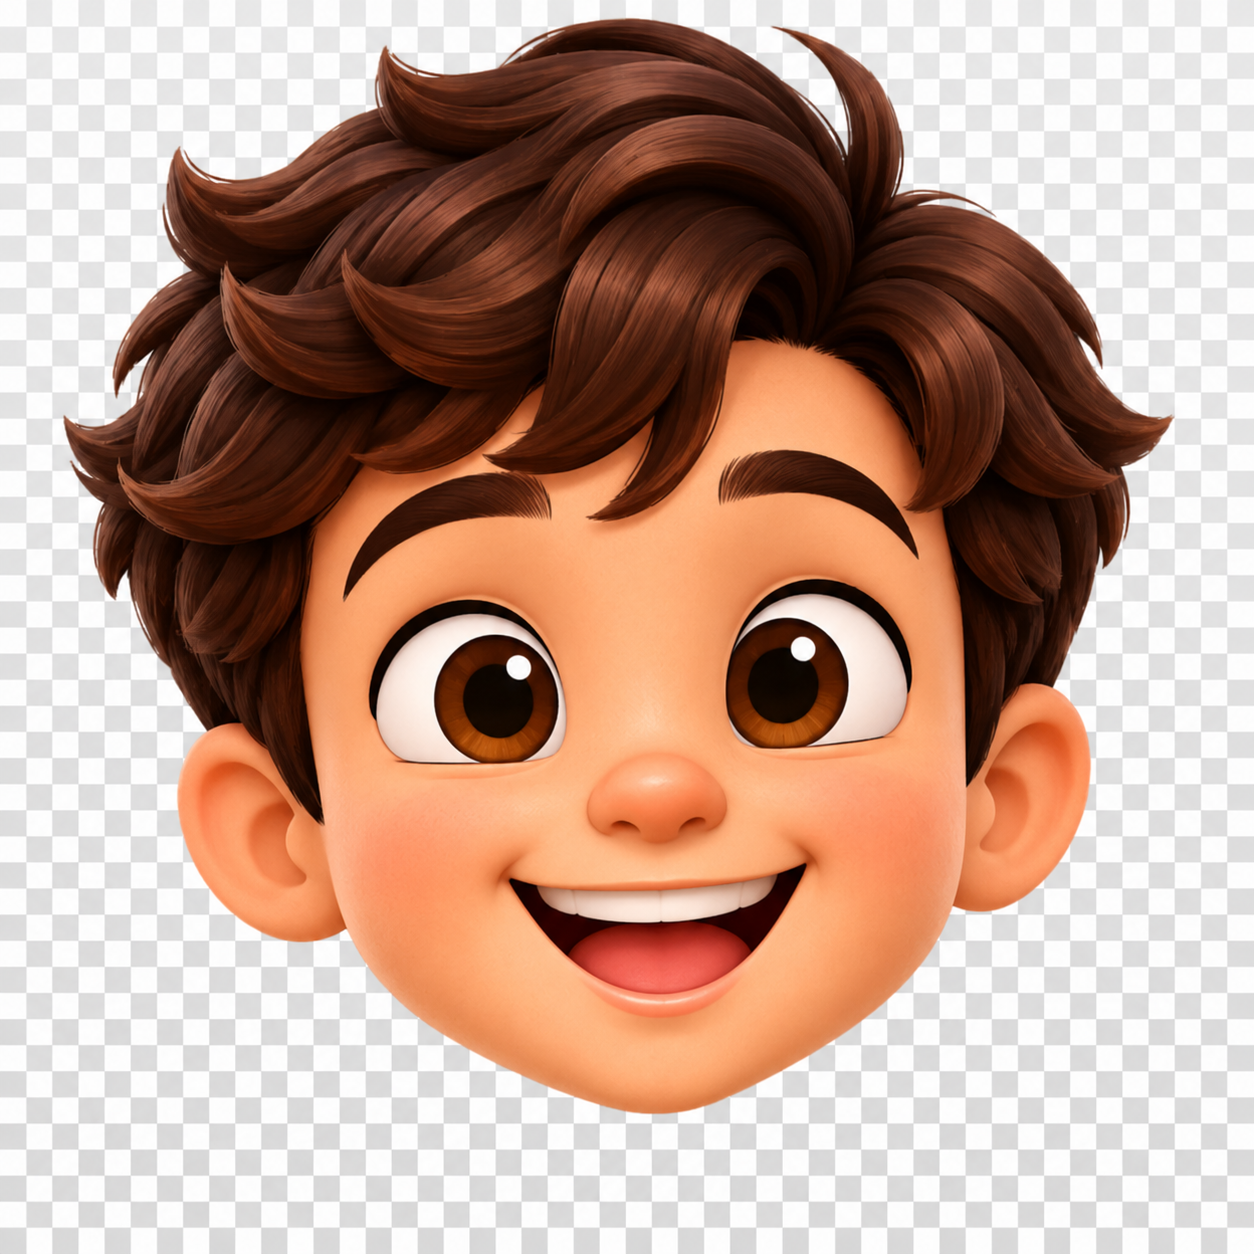
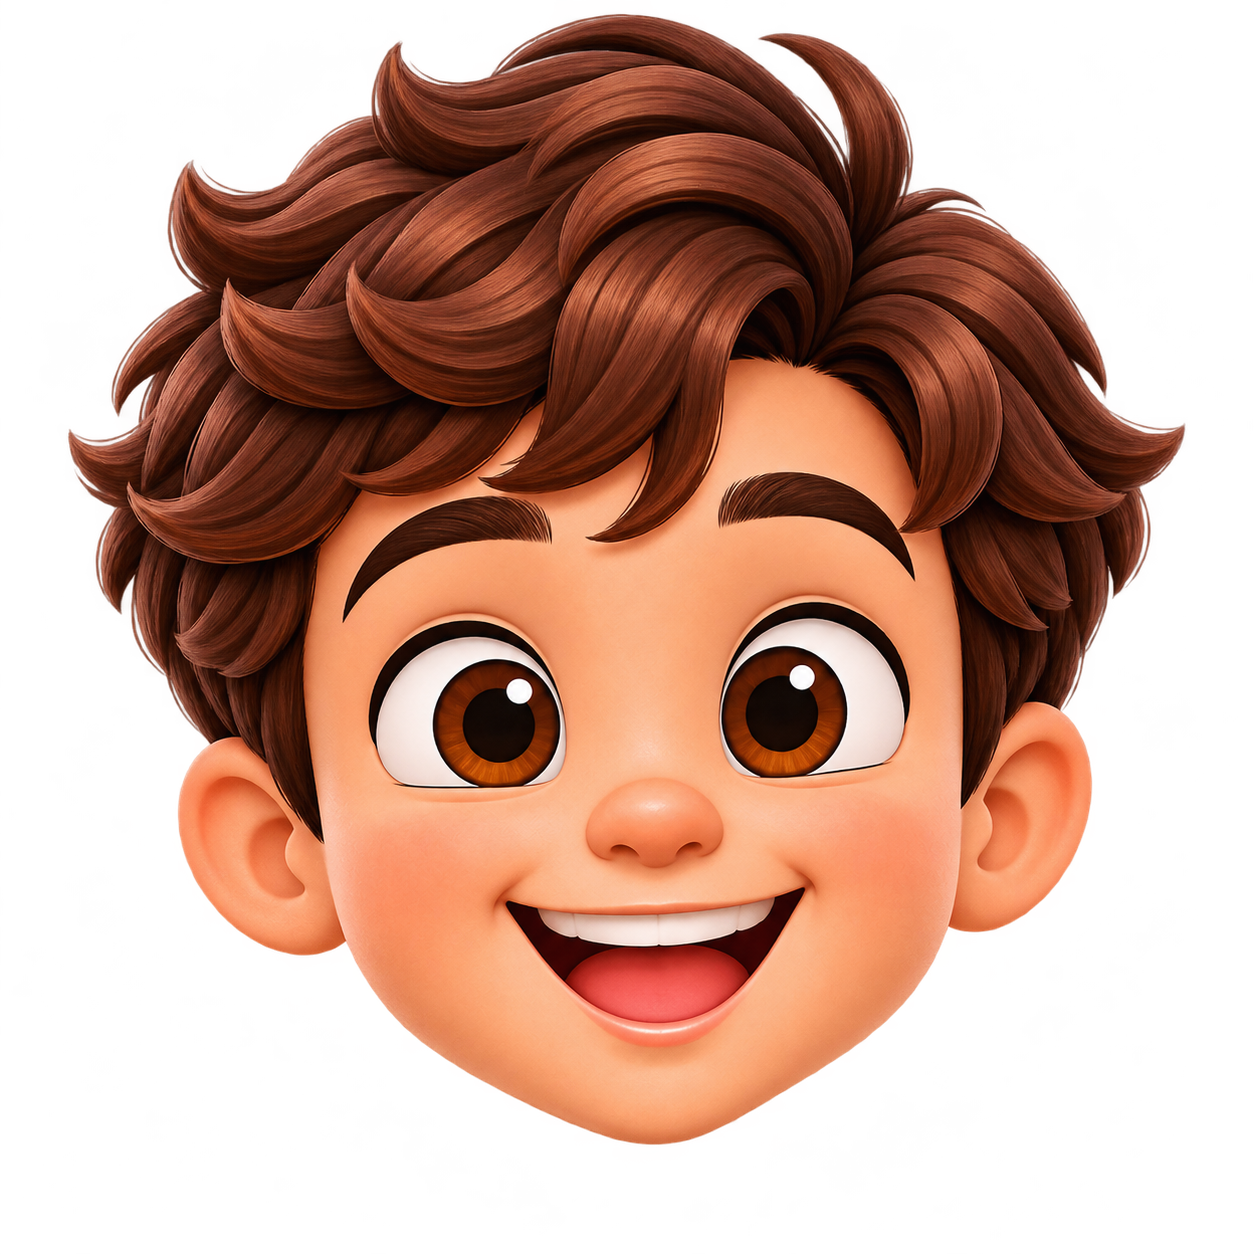
Simplify Home to top-left welcome and top menu actions

diff --git a/world/src/kids-ui.js b/world/src/kids-ui.js
@@ -1,6 +1,6 @@
 import * as THREE from 'three';
 export function setupKidsUI(app){
- const $=s=>document.querySelector(s),canvas=$('#view'),root=document.createElement('div');root.id='kidsUI';root.innerHTML='<header class="kidsHeader"><button class="kidsLogo" aria-label="SP Creek home">SP Creek</button><nav aria-label="Main menu"></nav><span class="kidsAvatar" aria-label="Friendly neighbour">☺</span></header><section id="kidsPanel"></section>';
+ const $=s=>document.querySelector(s),canvas=$('#view'),root=document.createElement('div');root.id='kidsUI';root.innerHTML='<header class="kidsHeader"><div class="kidsBrand"><button class="kidsLogo" aria-label="SP Creek home">SP Creek</button><span class="kidsGreeting">Welcome to SP Creek</span></div><nav aria-label="Main menu"></nav><span class="kidsAvatar" aria-label="Friendly neighbour">☺</span></header><section id="kidsPanel"></section>';
  document.body.append(root);document.body.classList.add('kids-ui');let tab='Home',category='Buildings',selected=null,view=0,studio=false;
  const panel=$('#kidsPanel'),icons={Home:'⌂',Create:'🖌',Play:'🎮',Watch:'▶',Settings:'⚙',Help:'?'};
  const asset=(name,fallback)=>{const span=document.createElement('span');span.className='kidsIcon';span.textContent=fallback;return span;};
@@ -38,7 +38,7 @@ export function setupKidsUI(app){
  const open=name=>{if(name!=='Play'&&app.game.active)app.game.exit();tab=name;studio=false;root.hidden=false;document.body.classList.remove('kids-studio','kids-world','ui-hidden');panel.hidden=false;root.querySelectorAll('.kidsTab').forEach(b=>{b.classList.toggle('on',b.dataset.tab===name);b.setAttribute('aria-current',name===b.dataset.tab?'page':'false');});
   if(name==='Create')create();else if(name==='Settings')settings();else if(name==='Watch'){heading('Watch SP Creek','Choose a calm video or an episode.');const grid=document.createElement('div');grid.className='kidsWatch';panel.append(grid);proxies('#videoPresets button',grid);}
   else if(name==='Help'){heading('Let’s explore!','A little guide to SP Creek');const grid=document.createElement('div');grid.className='kidsHelp';for(const text of ['🏡 Create: choose a piece, Place, then click the ground.','↻ Select a building to rotate or remove it.','🛤 Roads: click ground points, then Finish or Enter.','🎮 Play: WASD or arrows move; E rides a pony.','🖱 Free camera: drag to look, wheel to move closer.','🎨 Pick your favourite art style at any time.','🎥 H hides menus for recording; H brings them back.']){const p=document.createElement('p');p.textContent=text;grid.append(p);}panel.append(grid);}
-  else if(name==='Play'){app.game.enter();document.body.classList.remove('ui-hidden');closeForWorld();}else{heading('Welcome to SP Creek','A little world to build, explore and enjoy.');const row=document.createElement('div');row.className='kidsWelcome';row.append(button('🖌 Create your world',()=>open('Create')),button('🎮 Let’s play',()=>open('Play')),button('▶ Watch a story',()=>open('Watch')));panel.append(row);}resize();};
+  else if(name==='Play'){app.game.enter();document.body.classList.remove('ui-hidden');closeForWorld();}else{panel.replaceChildren();closeForWorld();}resize();};
  for(const [name,icon]of Object.entries(icons)){const b=button(name,()=>open(name),'kidsTab');b.dataset.tab=name;const i=document.createElement('span');i.className='kidsIcon';i.textContent=icon;b.prepend(i);art(i,name.toLowerCase());root.querySelector('.kidsHeader nav').append(b);}$('.kidsLogo').onclick=()=>open('Home');art($('.kidsLogo'),'logo');art($('.kidsAvatar'),'avatar');
  app.kidsUI={open,get tab(){return tab;},previewRect(){return !studio&&!root.hidden&&!panel.hidden&&tab==='Create'&&!document.body.classList.contains('ui-hidden')?$('#kidsPreviewWindow')?.getBoundingClientRect():null;}};
  panel.addEventListener('scroll',resize);
@@ -47,6 +47,7 @@ export function setupKidsUI(app){
  const back=button('Back to friendly menu',()=>open('Home'));back.id='kidsStudioBack';$('#panel').prepend(back);
  if(!new URLSearchParams(location.search).has('showcase'))open('Home');else{root.hidden=true;document.body.classList.add('kids-studio');}
 }
+
 
 
 

diff --git a/world/style.css b/world/style.css
@@ -227,3 +227,9 @@ body.kids-ui:not(.kids-studio) #modeControls > button { display:none; }
 body.kids-ui:not(.kids-studio) #modeControls > #freeBtn { display:flex;align-items:center;justify-content:center;width:174px;min-height:64px;font-size:16px;background:#c4e6fa;color:#214a64;border:3px solid #fff7e9;border-radius:20px;box-shadow:0 3px 7px #0003; }
 body.kids-ui:not(.kids-studio) #modeControls > #freeBtn.on { background:#ffda78;color:#573b27; }
 body.kids-ui:not(.kids-studio) #modeControls { position:absolute;top:-4px;left:calc(100% + 12px);right:auto; }
+/* Home keeps the world open; welcome belongs with the top-left brand. */
+.kidsBrand { display:flex;flex-direction:column;align-items:flex-start;gap:2px;flex:0 0 auto; }
+.kidsGreeting { color:#fff6db;text-shadow:0 1px 3px #32271f;font:bold 14px/18px 'Trebuchet MS',system-ui;white-space:nowrap;padding-left:6px; }
+@media(max-width:1100px){.kidsGreeting{font-size:12px}}
+.kidsBrand .kidsLogo { height:64px;min-height:64px;padding:4px 12px;display:flex;align-items:center;justify-content:center; }
+.kidsBrand .kidsLogo img { width:160px;height:48px;max-height:48px;object-fit:contain; }

diff --git a/tasks/QUEUE.md b/tasks/QUEUE.md
@@ -100,6 +100,7 @@ finished. Re-read this file each time; Claude may change it.
 | 84 | `tasks/campsite-review.md` | planned | queued seven campsite corrections and navigation check |
 | 85 | `tasks/seven-style-qa.md` | planned | queued per-style QA board; preserve seven distinct styles and readable landmarks |
 | 86 | `tasks/create-layout.md` | `area/create-layout` | superseded by lead task 31a kids-ui; prototype retained in history, not a second public menu |
+| 31d | `tasks/home-menu-layout.md` | `area/home-menu-layout` | done remove duplicate welcome/action card, greeting top-left; 27 focused + full 2015 + 2; top Create/Play/Watch/Free camera retained |
 | 31c | `tasks/freecam-access.md` | `area/freecam-access` | done restore original Free camera beside style strip; 24 focused + full 2015 + 2 passed; wide/tablet/day-night captures |
 | 31b | `tasks/kids-ui-art.result.md` | `area/kids-ui-art` | WIP supplied 13 icons registered; 21 checks/tab captures pass; opaque baked checkerboard needs transparent exports; avatar/pieces still fallbacks |
 | — | `tasks/kids-presets.md` | — | dropped: the renames are part of kid-cleanup |
@@ -173,6 +174,7 @@ meadow & lake, crystal mine & balloon.
 
 
 > New lead task tasks/kids-ui.md is authoritative for the supplied menu design and supersedes task 86 prototype scope. Continue on area/kids-ui; do not discard earlier correction queue.
+
 
 
 

diff --git a/tasks/WORK-LOG.md b/tasks/WORK-LOG.md
@@ -10,3 +10,5 @@ Progress checkpoint: road interaction increment verified (12 focused + full 2015
 31a kids-ui functional increment complete: 21 focused + full 2015 + 2 passed; six tabs, all 43 pieces, live world preview, Studio and silent tests. Every tab/tablet/Film day-night captures saved. Placeholder art and unavailable individual NPC placement documented, not claimed complete. Resume earlier functional clearance corrections next; no review wait required.
 
 Artwork received: 13 supplied UI PNGs registered on area/kids-ui-art; 21 checks pass, captures refreshed. Home background verified opaque with baked checkerboard; originals preserved. Need transparent RGBA exports for final cut-out appearance. Collision resume checkpoint: shopper pair min separation improved from 0.079929m to 4.981526m; broad movement remains WIP.
+
+Home layout corrected per user: no large welcome/action overlay; greeting top-left and actions in top menus. 27 focused + full 2015 + 2 pass; current supplied replacement art preserved. No push/merge. Continue earlier scene/function corrections; user plans further submenus and icon replacements separately.

diff --git a/tasks/home-menu-layout.result.md b/tasks/home-menu-layout.result.md
@@ -1,0 +1,5 @@
+# Home menu layout result
+Done layout correction, awaiting review. Branch area/home-menu-layout.
+Removed the large central welcome card and duplicate Create/Play/Watch action cards. Home now shows the full live world; Welcome to SP Creek is in the top-left logo/brand group, clear of the style strip. Existing top Create/Play/Watch tabs and icons remain. Free camera On/Off stays visible beside the styles; Studio and other tabs unchanged.
+Checks: 27 focused pass, including welcome/control non-overlap, no duplicate Home actions, six tabs, all pieces, actual placement/edit/delete, Studio, tablet, H, no audio/console/resource errors. Full 31 suites: 2015 + 2 startup passed, no browser errors. Log home-menu-layout-full.txt. All tab/tablet and Film Create day/night captures saved as world/tests/home-menu-layout-*.png. No camera definitions/IDs changed.
+User replacement artwork arrived during work: cat_characters, cat_nature, cat_props, cat_roads, cat_style, home and logo saved unchanged. No background editing performed. Other scene/collision corrections and any remaining icon replacements remain open.

diff --git a/tasks/home-menu-layout.md b/tasks/home-menu-layout.md
@@ -1,0 +1,3 @@
+# Home menu layout — direct user correction
+Scope kids-ui.js, style.css, supplied UI asset replacements, tests and metadata.
+Remove large Welcome panel and duplicated Create/Play/Watch cards. Put Welcome to SP Creek in the top-left brand area, leaving the world visible on Home. Use existing top menus and current supplied icons without repainting. Preserve Free camera/style access, all tabs and Studio. Full suite and tab/Film day-night evidence before done.
